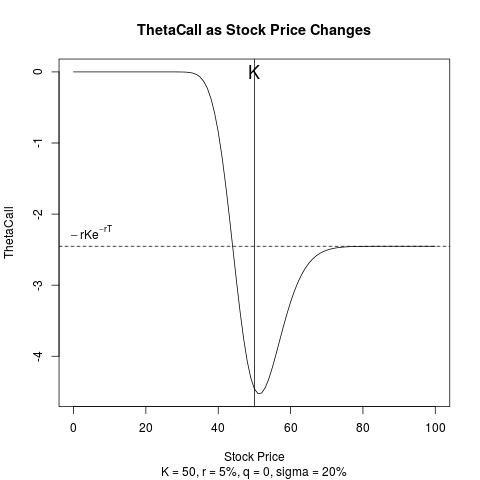
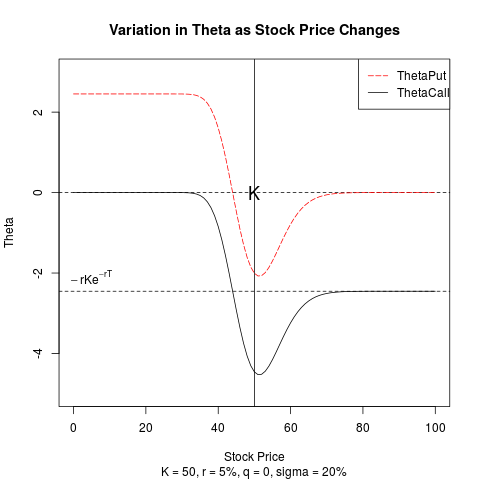
third development version 0.0.0.9002

diff --git a/README.md b/README.md
@@ -31,6 +31,7 @@ See the [GitHub Wiki](https://github.com/grfiv/ustreasuries/wiki) for examples o
     -   **DeltaCall** Amount call-option price changes given a change in asset price
     -   **DeltaPut** Amount put-option price changes given a change in asset price
     -   **ThetaCall** the decay in the value of a call or a portfolio of calls as time passes
+    -   **ThetaPut** the decay in the value of a put or a portfolio of puts as time passes
 -   **Utility Functions**
     -   **CAGR**
         -   **CAGRd** Calculate discrete Compound Annual Growth Rate
